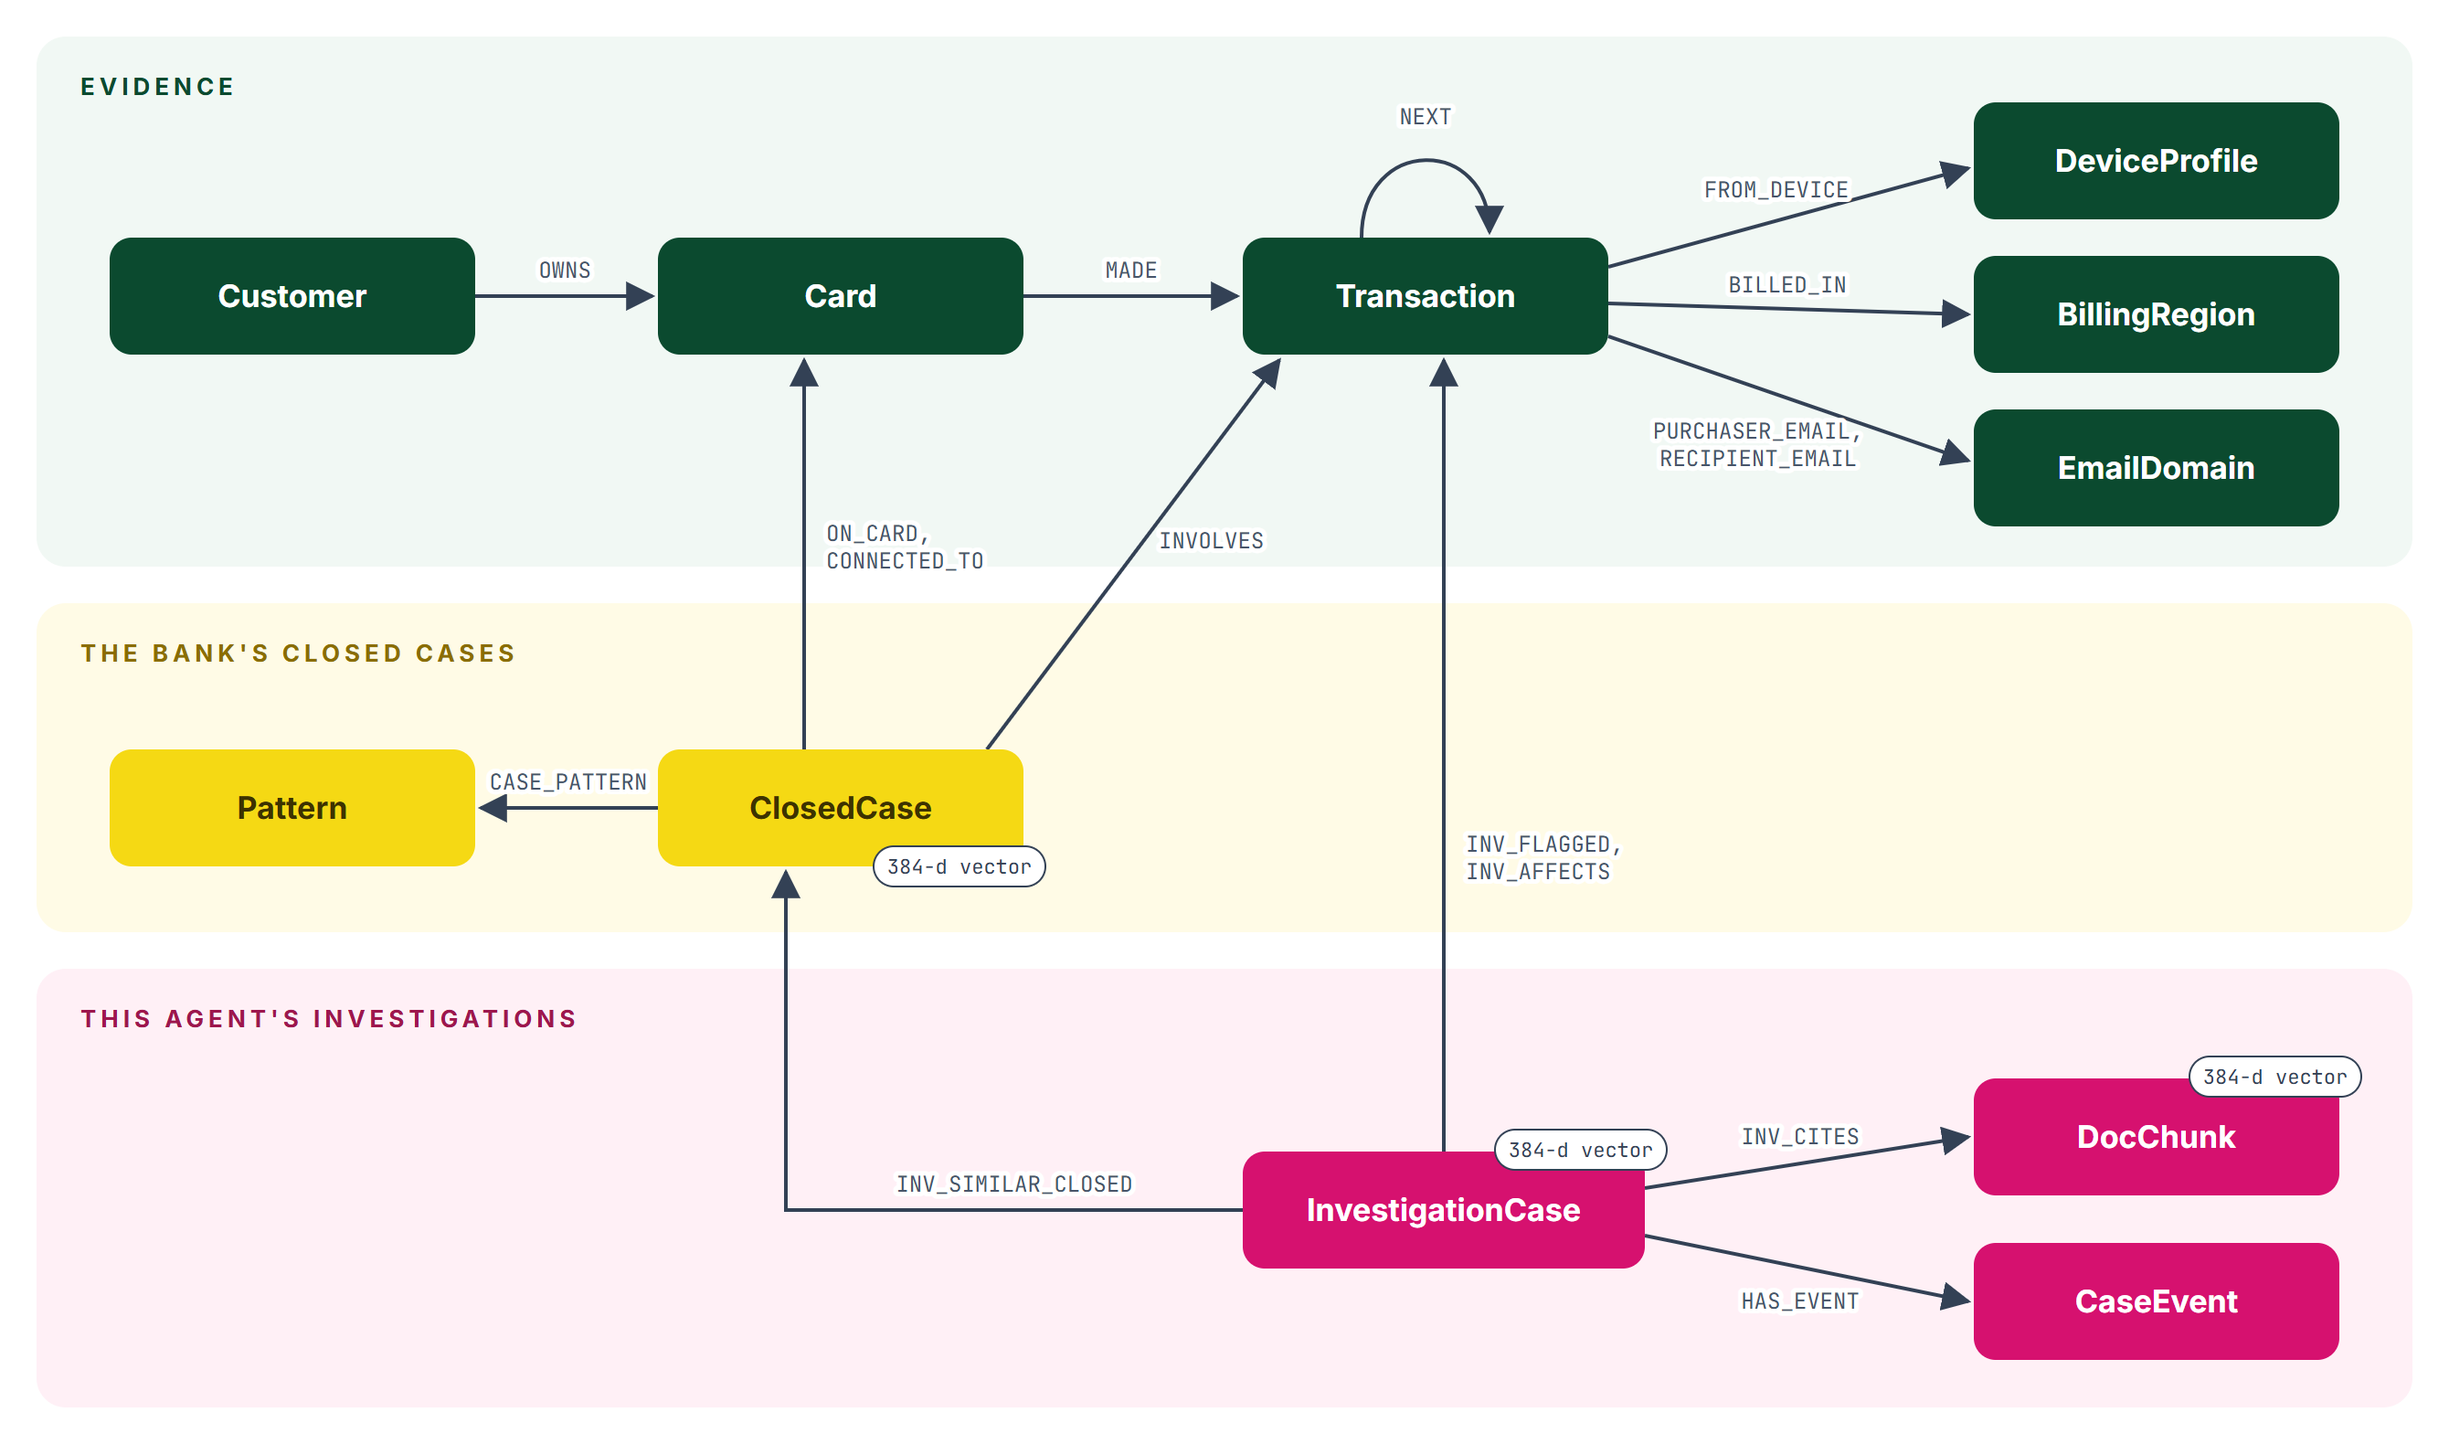
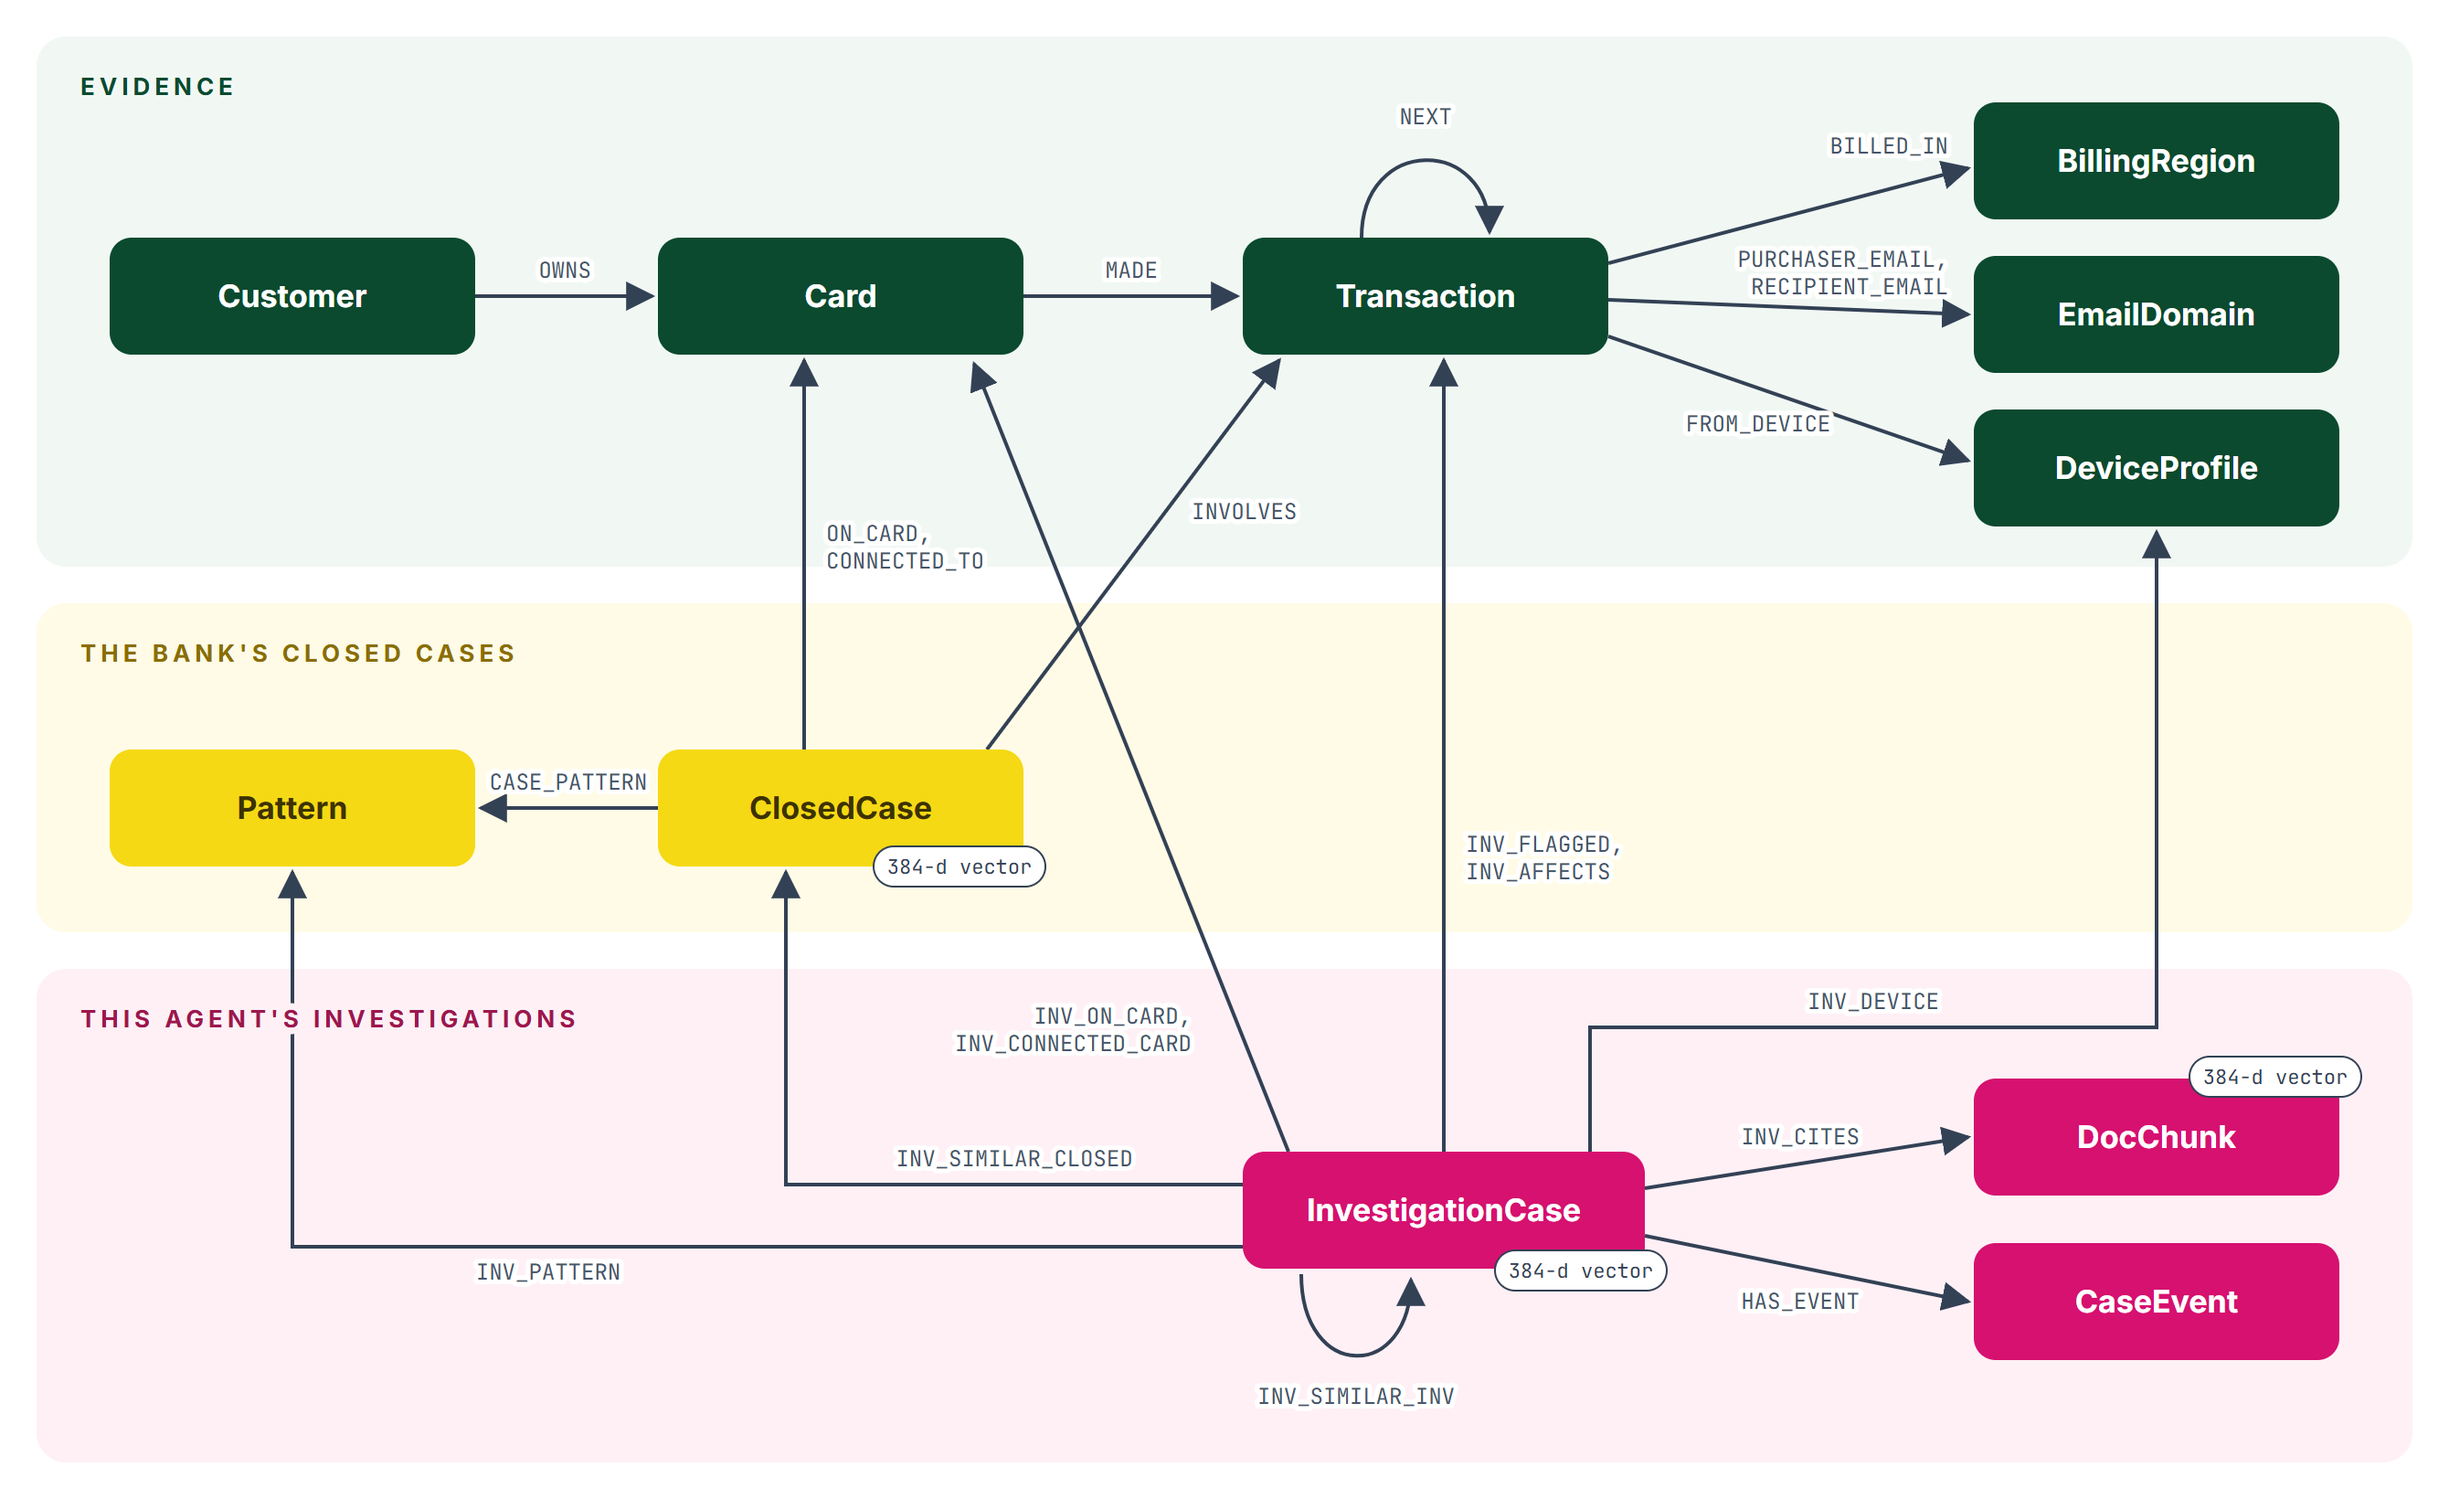
Draw every edge type in the schema and link the live dashboard
The schema diagram now shows all twenty-one edge types the README counts,
adding INV_ON_CARD, INV_CONNECTED_CARD, INV_DEVICE, INV_PATTERN and
INV_SIMILAR_INV. The README links the hosted dashboard.

serve_https.sh stops a dashboard started by hand before starting the
service: one left running held port 8501 and kept serving old code while
the service failed on every start.

The local editor configuration in .claude/ is no longer tracked.

diff --git a/README.md b/README.md
@@ -7,6 +7,10 @@ must approve it. Every finished case is written back into the graph as memory fo
 
 Built for the TigerGraph × Hacker House Goa challenge on the HHGOA_IEEE dataset.
 
+**Live dashboard:** [fraudtrail.lightninglogics.me](https://fraudtrail.lightninglogics.me/?case=HHG-014),
+reading from the TigerGraph Savanna workspace. The workspace pauses itself when idle, so the
+first visit after a quiet spell waits a minute or two while it resumes.
+
 ![A finished investigation and its neighbourhood, read back from the graph](docs/images/case-view.png)
 
 ## Contents
@@ -353,7 +357,8 @@ uv run streamlit run app/dashboard.py
 
 To host the dashboard on an Ubuntu server with a domain pointed at it, clone the repo, add
 `.env`, open ports 80 and 443, and run the script below. It runs the dashboard as a service
-behind Caddy, which obtains and renews the HTTPS certificate itself.
+behind Caddy, which obtains and renews the HTTPS certificate itself. Running it again after a
+`git pull` deploys the new version.
 
 ```bash
 bash scripts/serve_https.sh your.domain.example
